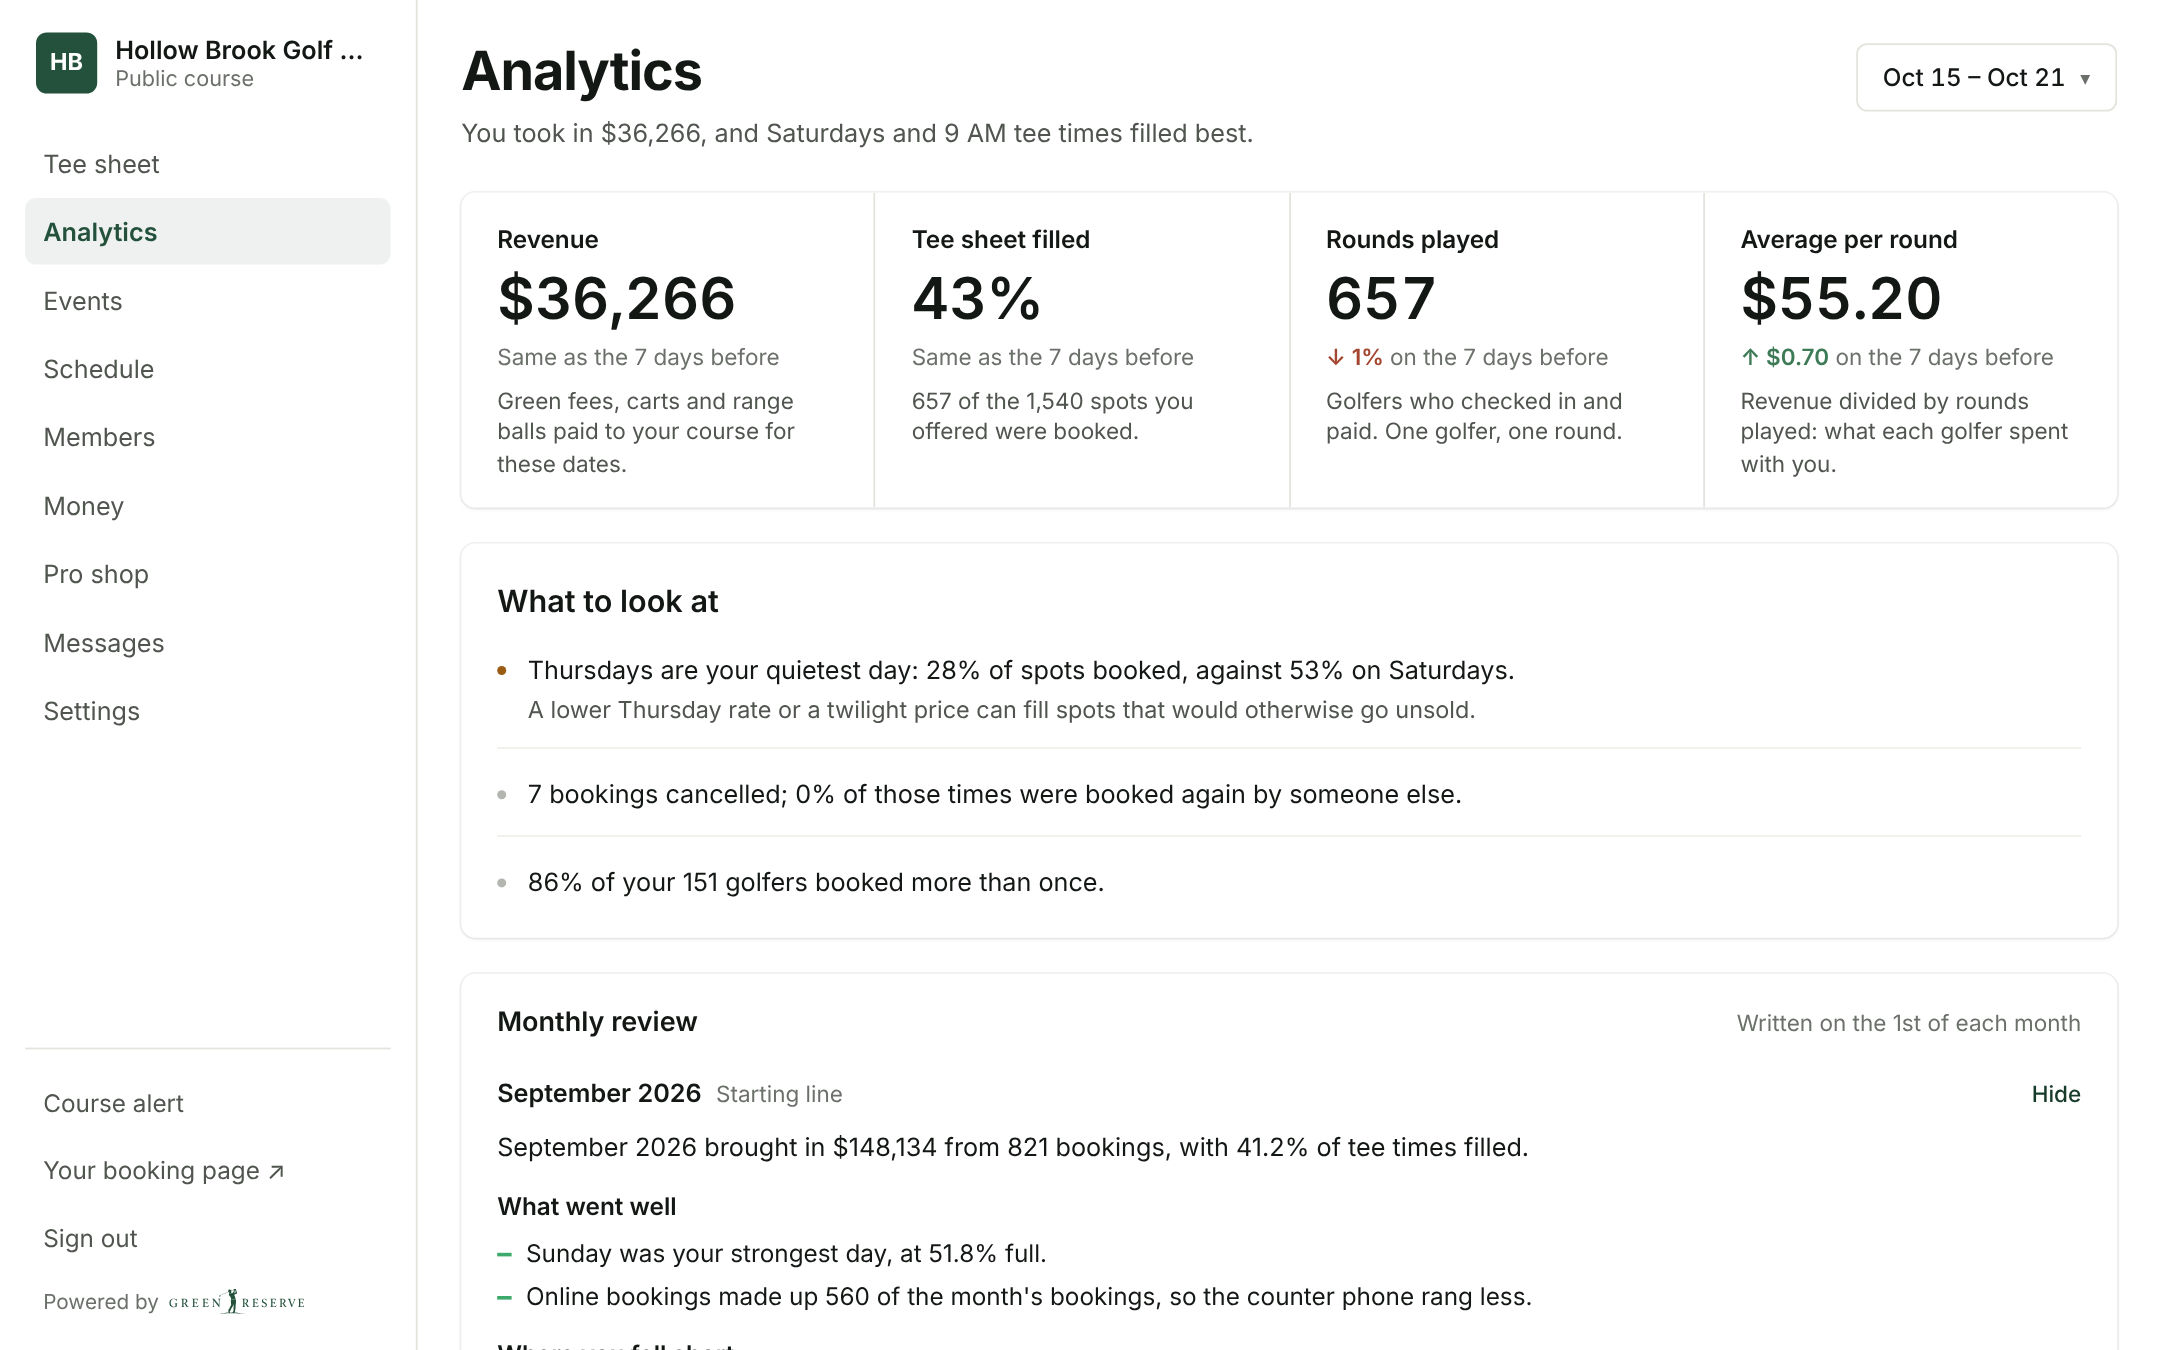
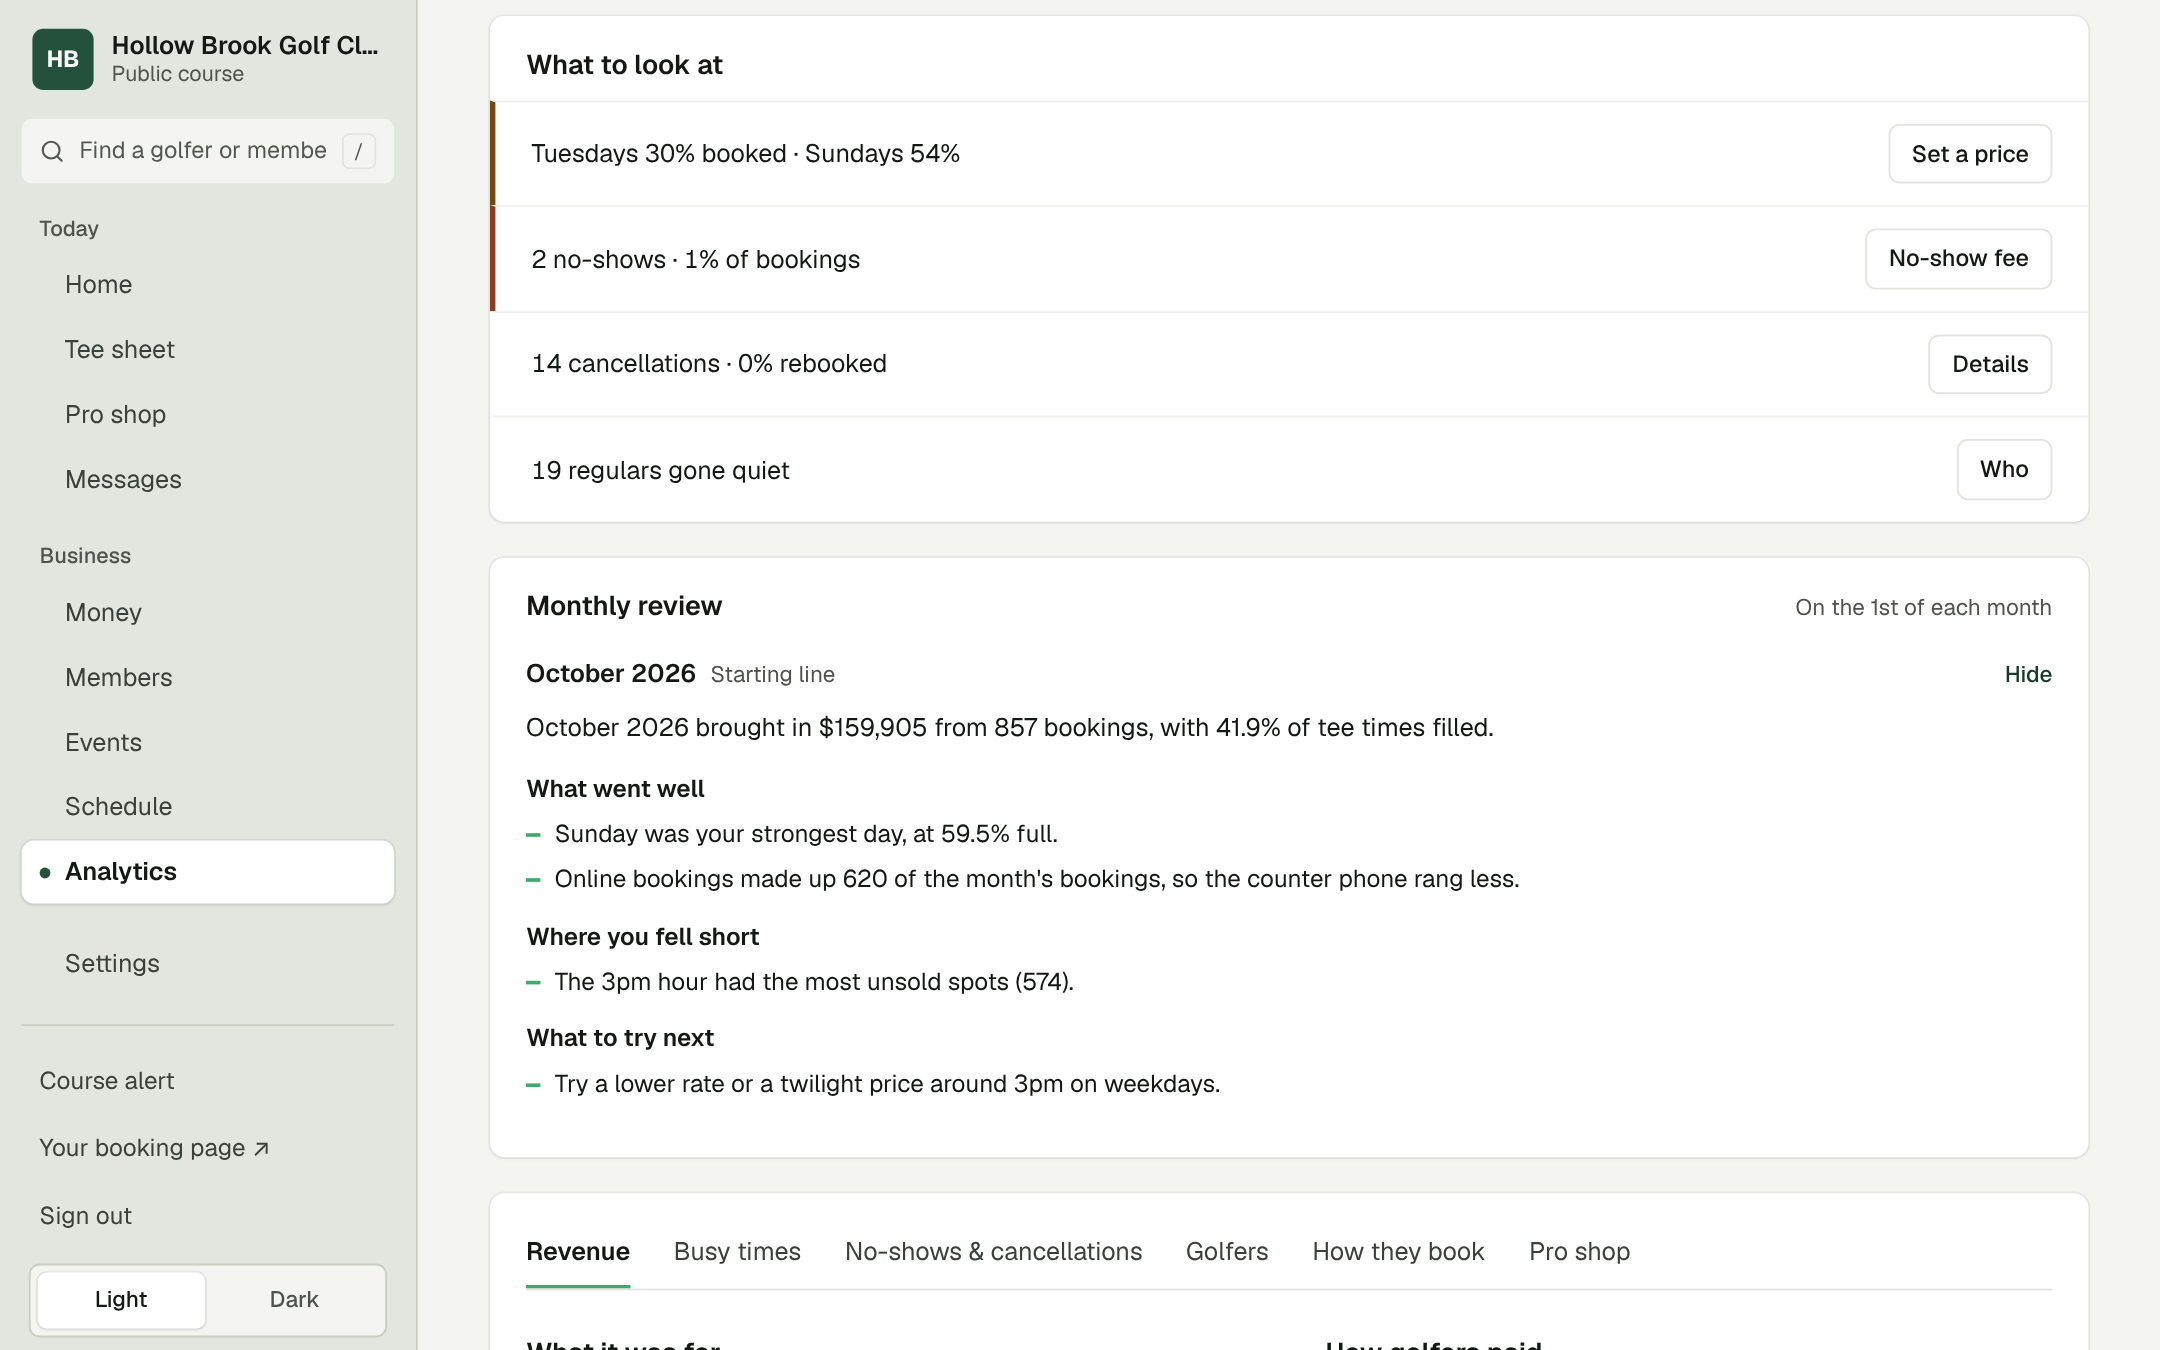
Homepage and /teesheet: retake the product screenshots
The tee-sheet shot still showed the retired board and the old menu, and
the analytics shot the pre-DENSE wording. capture.ts waited for the old
board's "Next up" text; it now waits for the seat rows. Alt text follows
the new pictures. Taken from the local seed only.

Claude-Session: https://claude.ai/code/session_014ceBnvqdgYtrAaJ1v5CwQ2

diff --git a/src/app/teesheet/page.tsx b/src/app/teesheet/page.tsx
@@ -45,7 +45,7 @@ const FEATURES: { h: string; p: string; items: string[]; shot?: Shot }[] = [
       'Call off a stormy afternoon in one step, with every golfer told',
       'A course alert banner on your booking page for closures and notices',
     ],
-    shot: { shot: 'tee-sheet', device: 'laptop', alt: 'The tee sheet: a square for every tee time with its groups, paid ones edged in green and unpaid in amber, and the next time marked Next up' },
+    shot: { shot: 'tee-sheet', device: 'laptop', alt: 'The tee sheet: a row for every tee time with a cell for each seat, paid groups filled green and unpaid ones amber, past times folded away and a line marking now' },
   },
   {
     h: 'Payments',
@@ -102,7 +102,7 @@ const FEATURES: { h: string; p: string; items: string[]; shot?: Shot }[] = [
       'No-shows, how far ahead golfers book, and where bookings come from',
       'At the start of each month, a written review of the month before, built only from your own numbers',
     ],
-    shot: { shot: 'analytics', device: 'laptop', alt: 'The analytics page: revenue, tee sheet filled, rounds played and average per round, what to look at, and September’s monthly review' },
+    shot: { shot: 'analytics', device: 'laptop', alt: 'The analytics page: what to look at, with a button beside each, and the monthly review of the month before' },
   },
 ];
 

diff --git a/scripts/screenshots/capture.ts b/scripts/screenshots/capture.ts
@@ -78,7 +78,7 @@ async function main() {
   {
     const ctx = await laptop(); const p = await ctx.newPage();
     await p.goto(`${BASE}/dashboard`, { waitUntil: 'load', timeout: 240000 });
-    await p.getByText('Next up').first().waitFor({ timeout: 120000 });
+    await p.locator('[aria-label*=" booked"]').first().waitFor({ timeout: 120000 }); // DENSE-4: the seat rows
     await clean(p);
     await p.evaluate(() => window.scrollTo(0, 0));
     await shot(p, 'tee-sheet');
@@ -105,7 +105,7 @@ async function main() {
       return route.fulfill({ status: 200, contentType: 'application/x-ndjson', body: lines.map(l => JSON.stringify(l)).join('\n') + '\n' });
     });
     await p.goto(`${BASE}/dashboard`, { waitUntil: 'load', timeout: 240000 });
-    await p.getByText('Next up').first().waitFor({ timeout: 120000 });
+    await p.locator('[aria-label*=" booked"]').first().waitFor({ timeout: 120000 }); // DENSE-4: the seat rows
     await clean(p);
     await p.getByRole('button', { name: /Open the assistant|Ask the assistant/ }).first().click();
     await p.getByLabel('Message the assistant').fill('Who’s still to check in this afternoon?');

diff --git a/src/app/HomeContent.tsx b/src/app/HomeContent.tsx
@@ -41,7 +41,7 @@ const FEATURES: { h: string; p: string; shot: string; device: 'laptop' | 'phone'
     h: 'Know how your course is doing.',
     p: 'Revenue, how full the sheet was and what each round brought in, against the week before, in plain words. At the start of every month you get a written review of the month before, built only from your own numbers.',
     shot: 'analytics', device: 'laptop',
-    alt: 'The analytics page: revenue, tee sheet filled, rounds played and average per round, what to look at, and September’s monthly review',
+    alt: 'The analytics page: what to look at, with a button beside each, and the monthly review of the month before',
   },
   {
     h: 'Paid at the counter or on their phone.',
